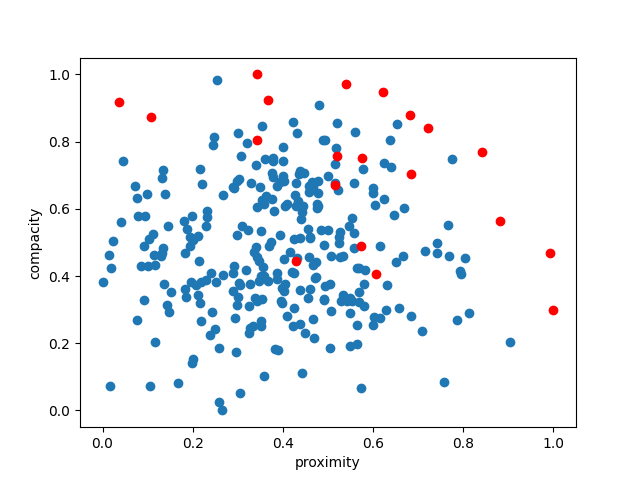
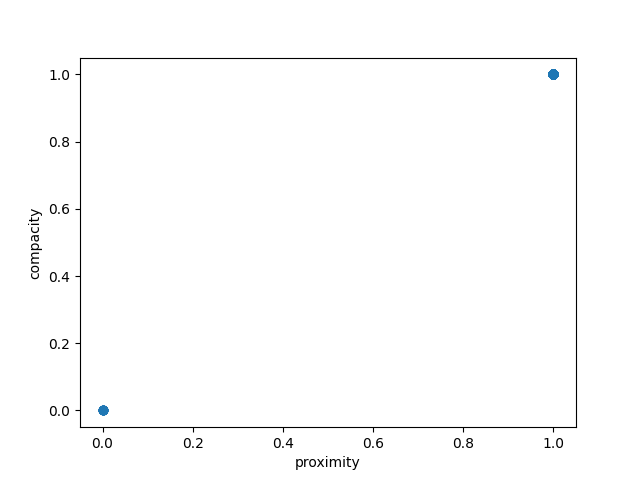
nouvelle fonction de mutation avec de la reproduction plus propre

diff --git a/main.py b/main.py
@@ -23,7 +23,7 @@ TEST_MAP_DIMENSION = (20, 20)
 
 # CONFIGURATION
 USING_TEST_MAP = False
-USING_DATA_PLOT = False
+USING_DATA_PLOT = True
 USE_EVOLUTION_LOOP = True
 
 best_scores = []
@@ -85,7 +85,7 @@ def load_map(file_path):
     return matrix
 
 
-def configure_plot(cost_map, production_map, usage_map, distance_map):
+def configure_data_plot():
     """ Configure a figure where the matrix data is plotted.
     """
     # Create a figure with three subplots
@@ -306,8 +306,27 @@ def mutation_population(population):
     return population
 
 
-def mutation_population2(population):
-    pass
+def mutation_and_reproduciton_population(population):
+
+    nouvelle_solution_mutee = []
+    for solution in population:
+        copie_solution = copy.deepcopy(solution)
+
+        new_plot_flat_index = np.random.choice(COST_MAP.size)
+        new_plot_index = np.unravel_index(new_plot_flat_index, COST_MAP.shape)
+        while USAGE_MAP[new_plot_index] != 0 or new_plot_index in copie_solution:
+            new_plot_flat_index = np.random.choice(COST_MAP.size)
+            new_plot_index = np.unravel_index(new_plot_flat_index, COST_MAP.shape)
+
+        copie_solution.append(new_plot_index)
+        while cost_bought_plot(copie_solution) > BUDGET:
+            copie_solution.pop(random.randint(0, len(copie_solution)-1))
+        nouvelle_solution_mutee.append(copie_solution)
+
+    population.extend(nouvelle_solution_mutee)
+
+    return population
+
 
 
 def selection(population, population_size):
@@ -316,7 +335,7 @@ def selection(population, population_size):
     population_ac_score = population_with_final_score(population)
     # tri la population par score
     sorted_population_ac_score = sorted(
-        population_ac_score, key=lambda x: x[1], reverse=True)
+        population_ac_score, key=lambda x: x[1], reverse=False)
 
     # Ajouter à la liste le meilleur score afin de plotter par après
     best_scores.append(sorted_population_ac_score[0][1])
@@ -339,12 +358,13 @@ def genetic_algorithm(initial_population_size, iteration):
     initial_population = population_generator(initial_population_size)
     nouvelle_population = initial_population
     for i in tqdm(range(iteration)):
-        nouvelle_population = reproduction_population(nouvelle_population)
-        nouvelle_population = mutation_population(nouvelle_population)
+        #nouvelle_population = reproduction_population(nouvelle_population)
+        nouvelle_population = mutation_and_reproduciton_population(nouvelle_population)
         nouvelle_population = selection(
             nouvelle_population, initial_population_size)
     print(" Solution Cost: € {:,}".format(
         cost_bought_plot(nouvelle_population[0])))
+    print(nouvelle_population)
     plot_solution(nouvelle_population[0])
     plot_pareto(nouvelle_population)
     return nouvelle_population
@@ -373,7 +393,7 @@ def proximite(solution):
 def production(solution):
     """ Computes the inverse of the sum of production for each bought parcel
     """
-    return sum(PRODUCTION_MAP[solution[i]] for i in range(len(solution)))
+    return 1/ sum(PRODUCTION_MAP[solution[i]] for i in range(len(solution)))
 
 
 """ SCORE FUNCTIONS """
@@ -492,7 +512,7 @@ if __name__ == "__main__":
     """2: INITIAL POPULATION """
 
     # Generate initial population randomly ⇾ cover as much as possible the solution space
-    population_amelioree = genetic_algorithm(300, 1000)
+    population_amelioree = genetic_algorithm(300, 500)
 
     """4: Pareto Frontier"""
 
